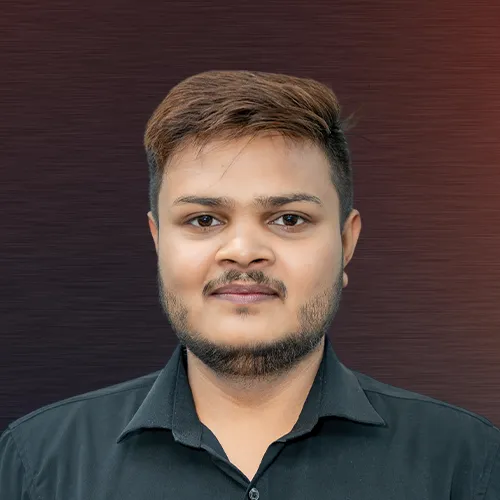
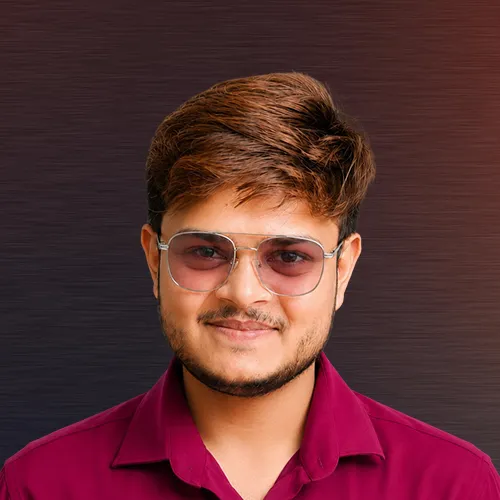
changeS

diff --git a/components/Footer.tsx b/components/Footer.tsx
@@ -113,7 +113,20 @@ export default function Footer() {
     <>
       <FooterCta />
 
-      <footer className="overflow-hidden bg-[#111013] text-white">
+      <footer className="relative isolate overflow-hidden bg-[#111013] text-white">
+  {/* Full-footer background image */}
+  <div
+    aria-hidden="true"
+    className="absolute inset-0 -z-20 bg-cover bg-center bg-no-repeat"
+    style={{ backgroundImage: "url('/000000.webp')" }}
+  />
+
+  {/* Black overlay */}
+  <div
+    aria-hidden="true"
+    className="absolute inset-0 -z-10 bg-black/40"
+  />
+
         <div className="mx-auto max-w-[1800px] px-5 pb-6 pt-5 sm:px-8 lg:px-12">
           <section
             aria-label="Our locations"

diff --git a/section/teamShowcase.tsx b/section/teamShowcase.tsx
@@ -44,7 +44,7 @@ const PROJECT_MANAGERS: TeamMember[] = [
   {
     name: "Sharthak Raina",
     designation: "Business Development Manager",
-    image: "/teams/malika.webp",
+    image: "/teams/Sharthak.webp",
     linkedin: "#",
   },
 ];
